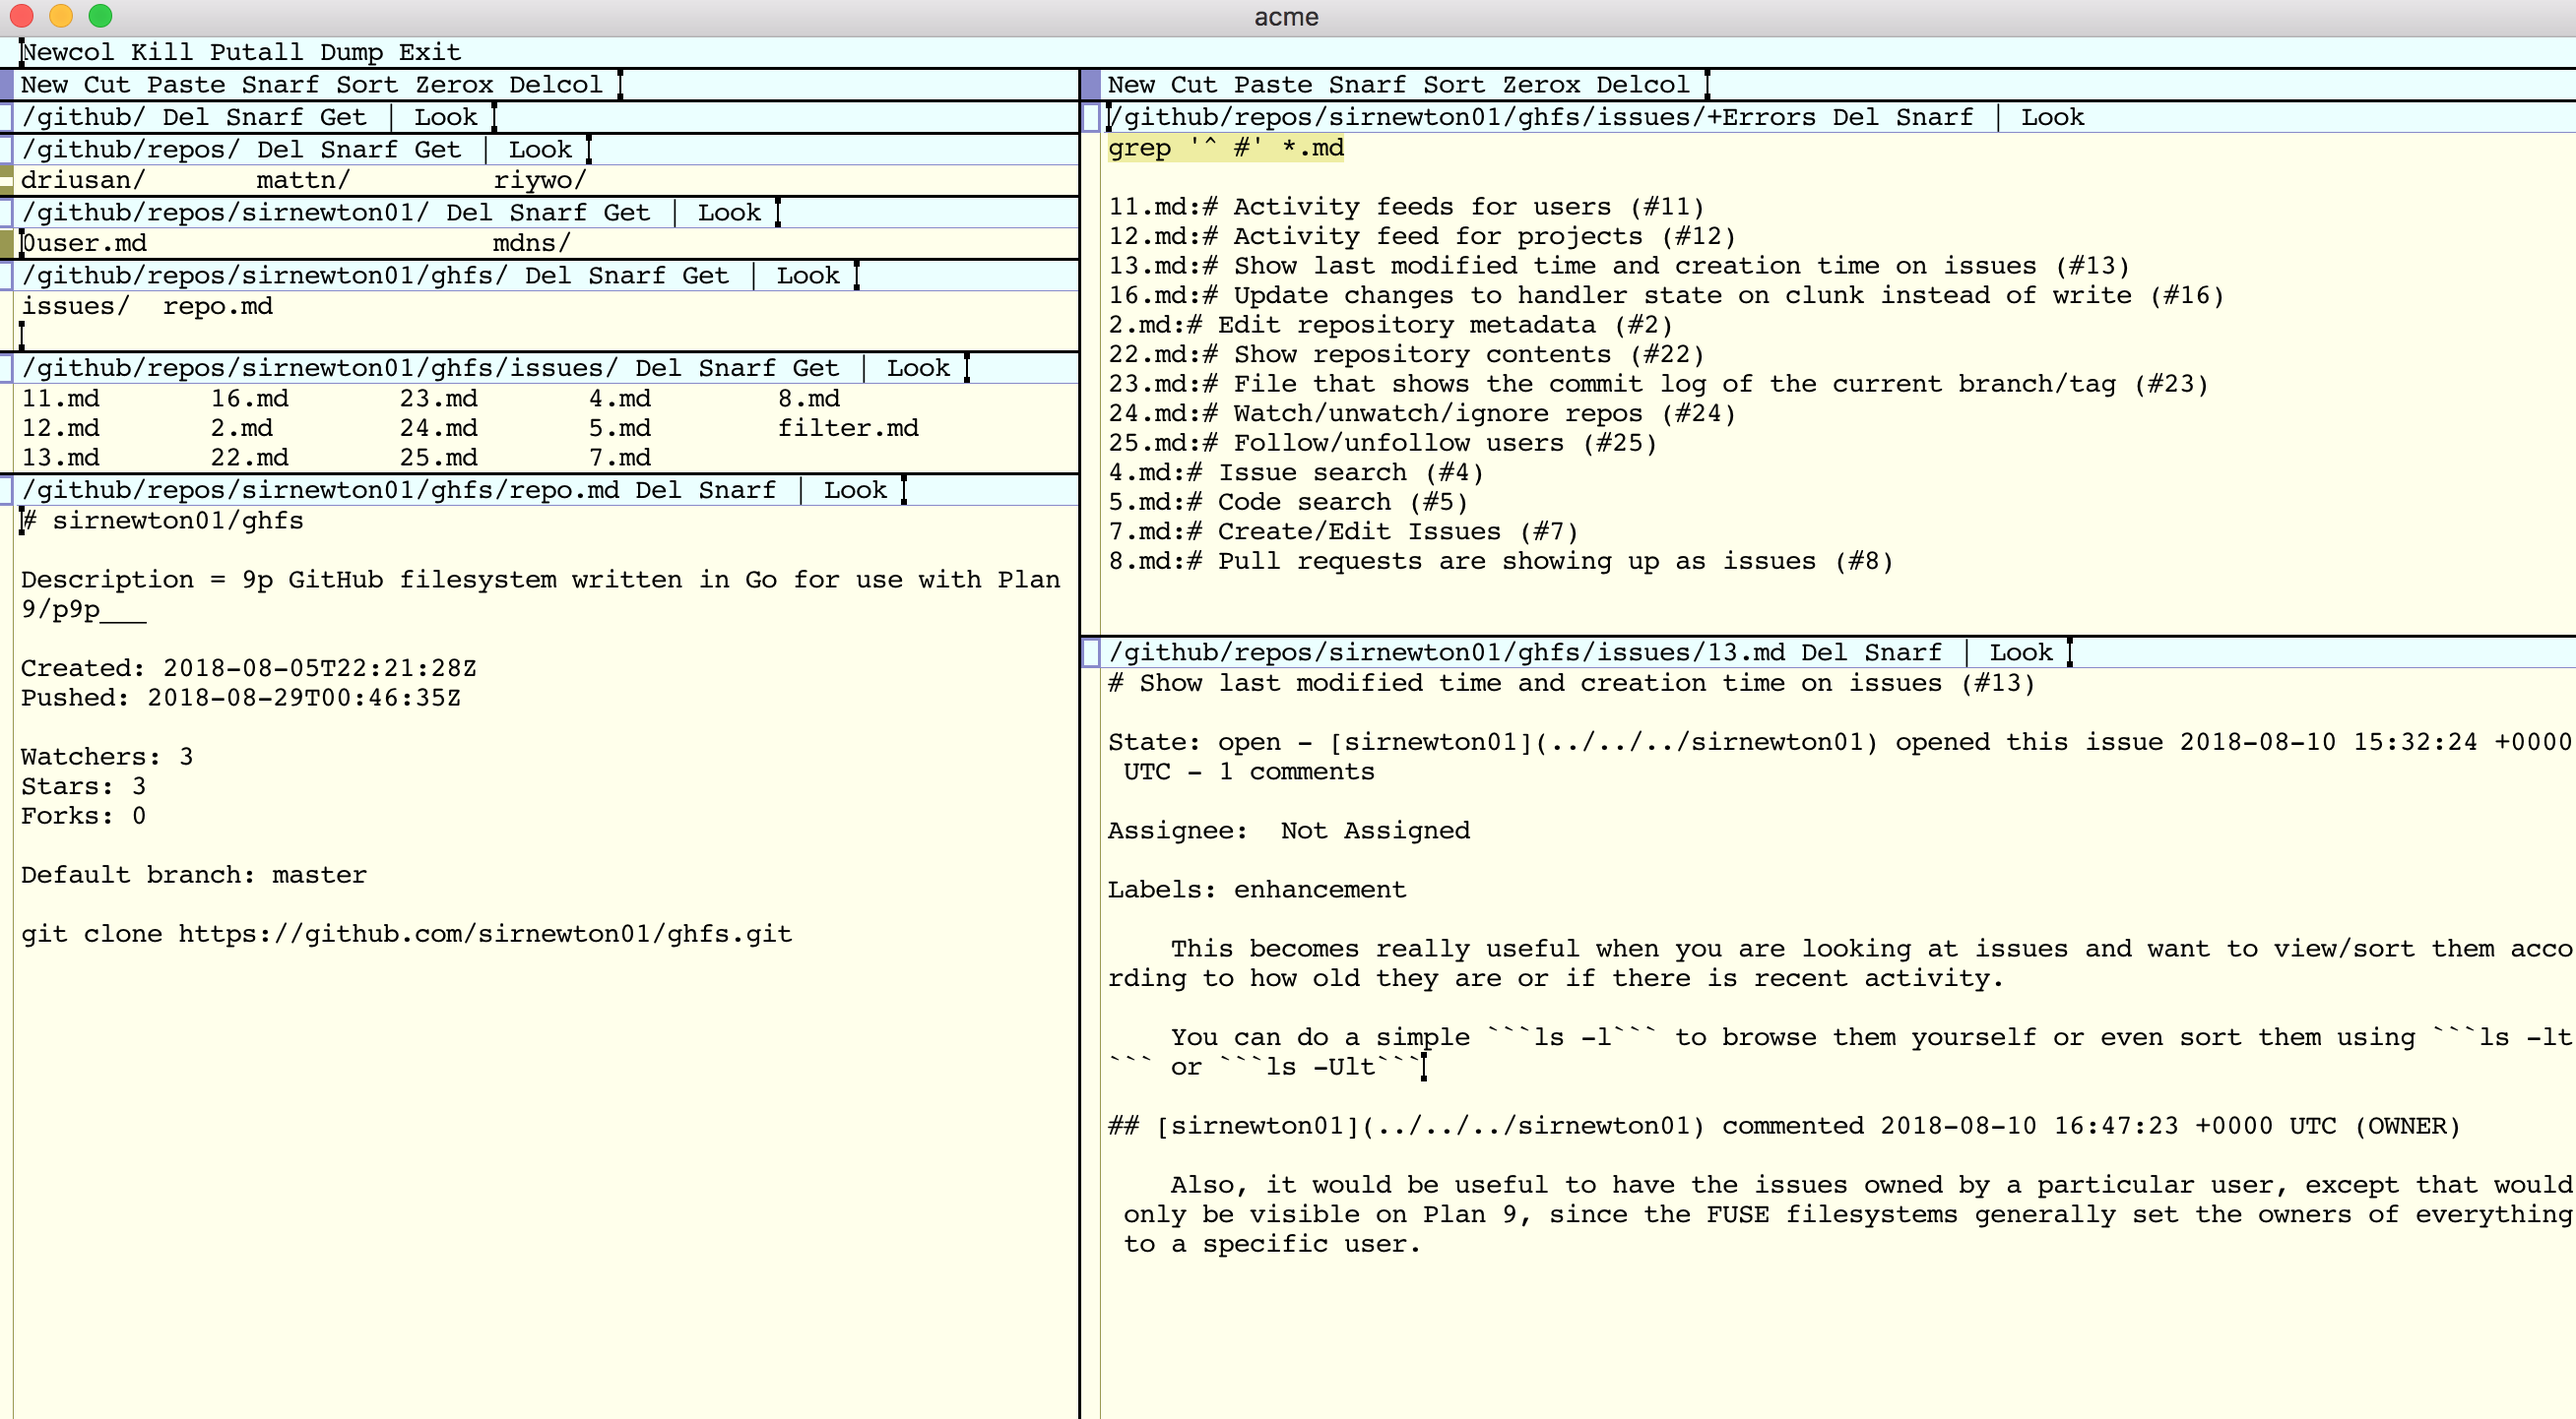
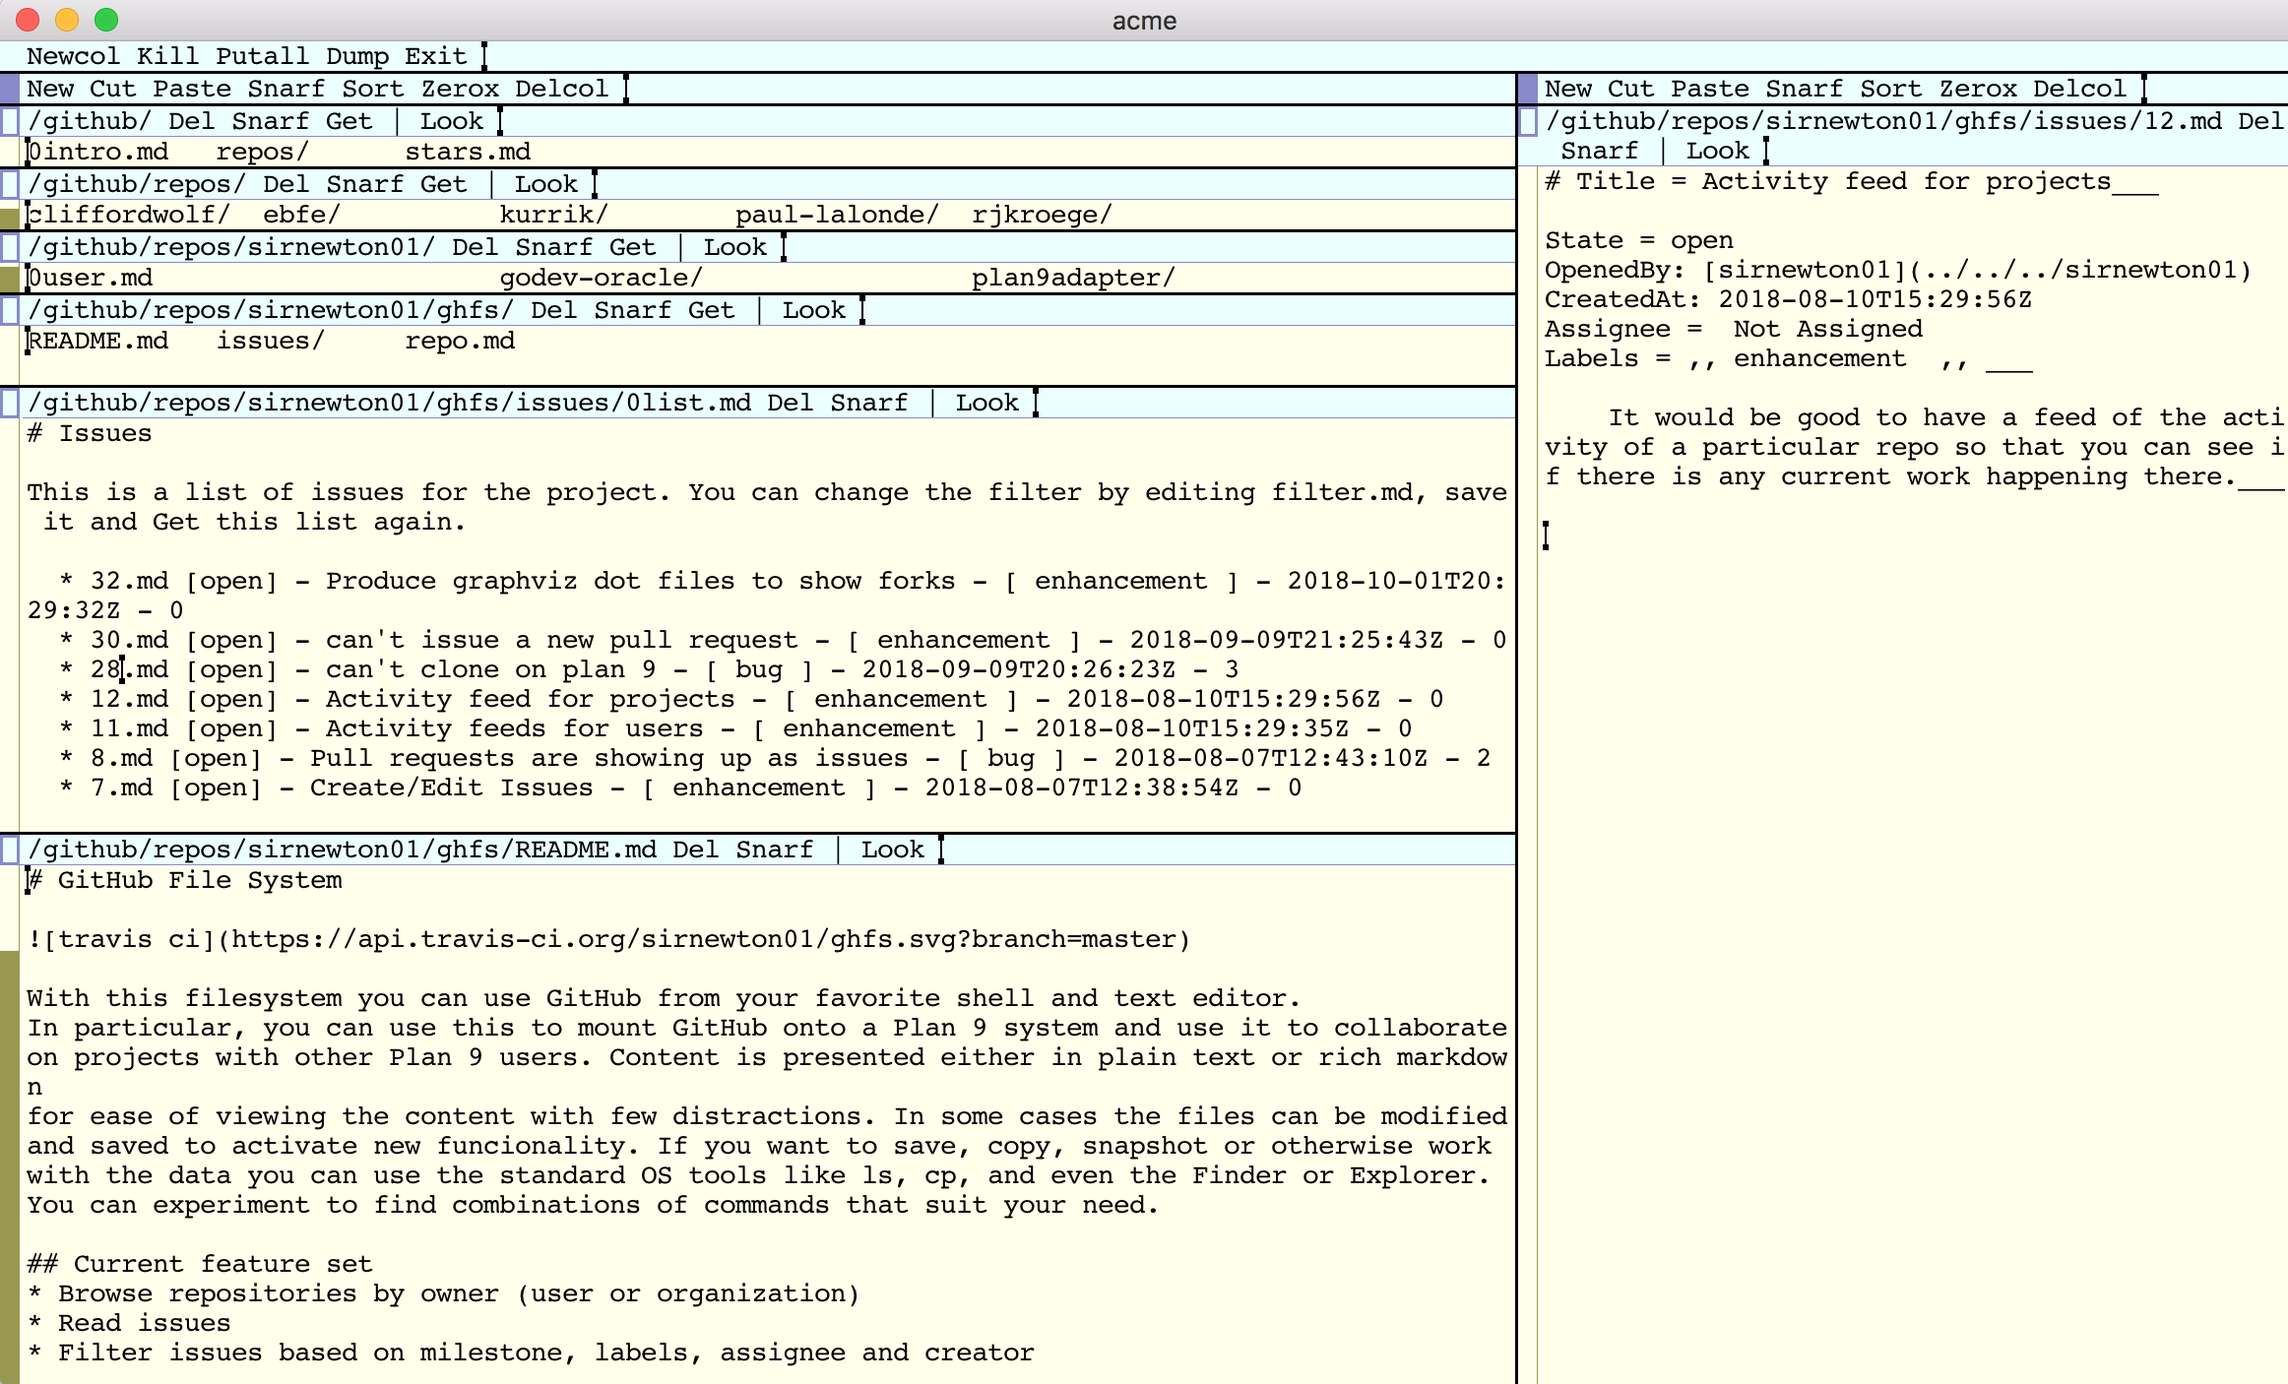
Update documentation

diff --git a/README.md b/README.md
@@ -40,31 +40,54 @@ $ cat /github/repos/sirnewton01/ghfs/repo.md
 
 Description = 9p GitHub filesystem written in Go for use with Plan 9/p9p___
 
-Watchers: 3
-Stars: 3
-Forks: 0
+Starred = [x]
 
+Notifications = () not watching (x) watching () ignoring
+
+Created: 2018-08-05T22:21:28Z
+Watchers: 10
+Stars: 10
+Forks: 1
 Default branch: master
+Pushed: 2018-10-01T20:46:19Z
+Commit: 079a0fa100e6b1704bed9373f1032fd3dbad4566 2018-10-01T20:46:13Z
 
-git clone  https://github.com/sirnewton01/ghfs.git
+git clone https://github.com/sirnewton01/ghfs.git
 
 $ cat mnt/repos/sirnewton01/ghfs/issues/13.md
 
-# Show last modified time and creation time on issues (#13)
+# Title = Show last modified time and creation time on issues___
 
-State: open - [sirnewton01](../../../sirnewton01) opened this issue 2018-08-10 15:32:24 +0000 UTC - 1 comments
-
-Assignee:  Not Assigned 
-
-Labels: enhancement 
+State = closed
+OpenedBy: [sirnewton01](../../../sirnewton01)
+CreatedAt: 2018-08-10T15:32:24Z
+Assignee =  Not Assigned 
+Labels = ,, enhancement  ,, ___
 
     This becomes really useful when you are looking at issues and want to view/sort them according to how old they are or if there is recent activity.
     
-    You can do a simple ```ls -l``` to browse them yourself or even sort them using ```ls -lt``` or ```ls -Ult```
+    You can do a simple ```ls -l``` to browse them yourself or even sort them using ```ls -lt``` or ```ls -Ult```___
 
-## [sirnewton01](../../../sirnewton01) commented 2018-08-10 16:47:23 +0000 UTC (OWNER)
+## Comment
 
-    Also, it would be useful to have the issues owned by a particular user, except that would only be visible on Plan 9, since the FUSE filesystems generally set the owners of everything to a specific user.
+User: [sirnewton01](../../../sirnewton01) 
+CreatedAt: 2018-08-10T16:47:23Z
+
+    Also, it would be useful to have the issues owned by a particular user, except that would only be visible on Plan 9, since the FUSE filesystems generally set the owners of everything to a specific user.___
+
+## Comment
+
+User: [sirnewton01](../../../sirnewton01) 
+CreatedAt: 2018-09-04T02:37:59Z
+
+    The last modification time has been added.___
+
+## Comment
+
+User: [sirnewton01](../../../sirnewton01) 
+CreatedAt: 2018-09-04T02:43:16Z
+
+    There's no way to expose the creation time in a filesystem.___
 ```
 
 Here is how ghfs can look if you are using the Acme editor.
